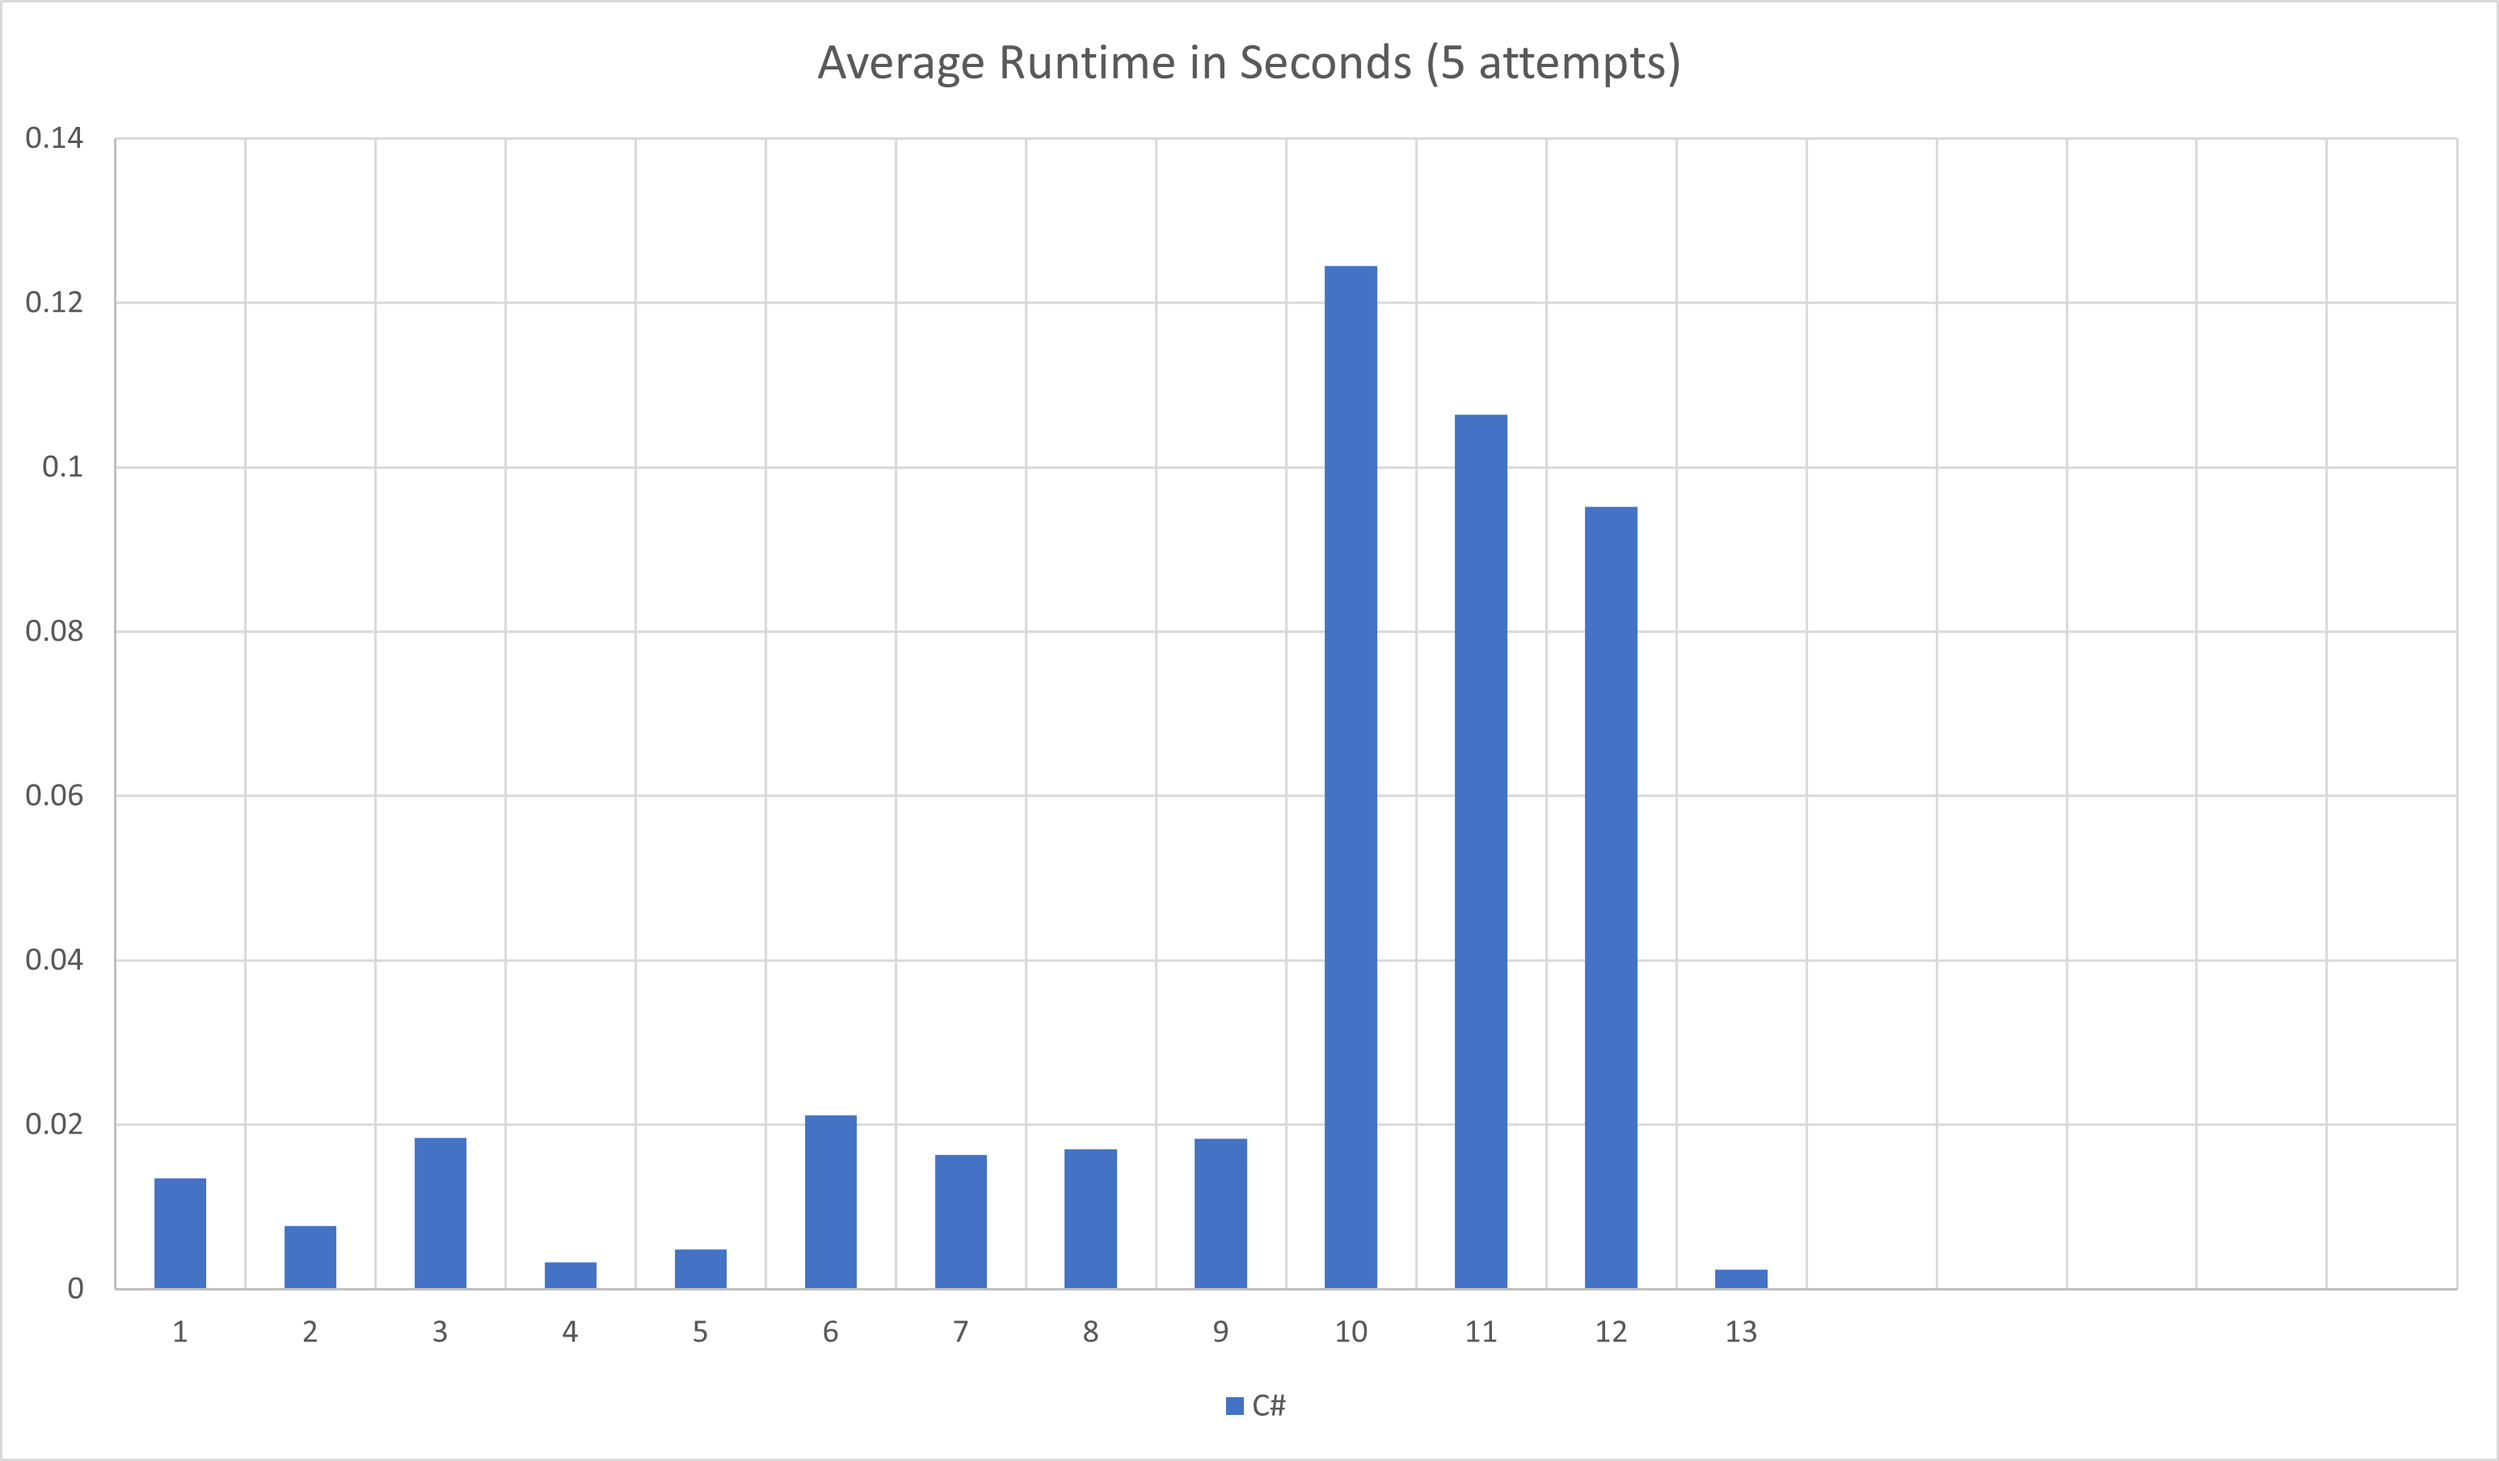
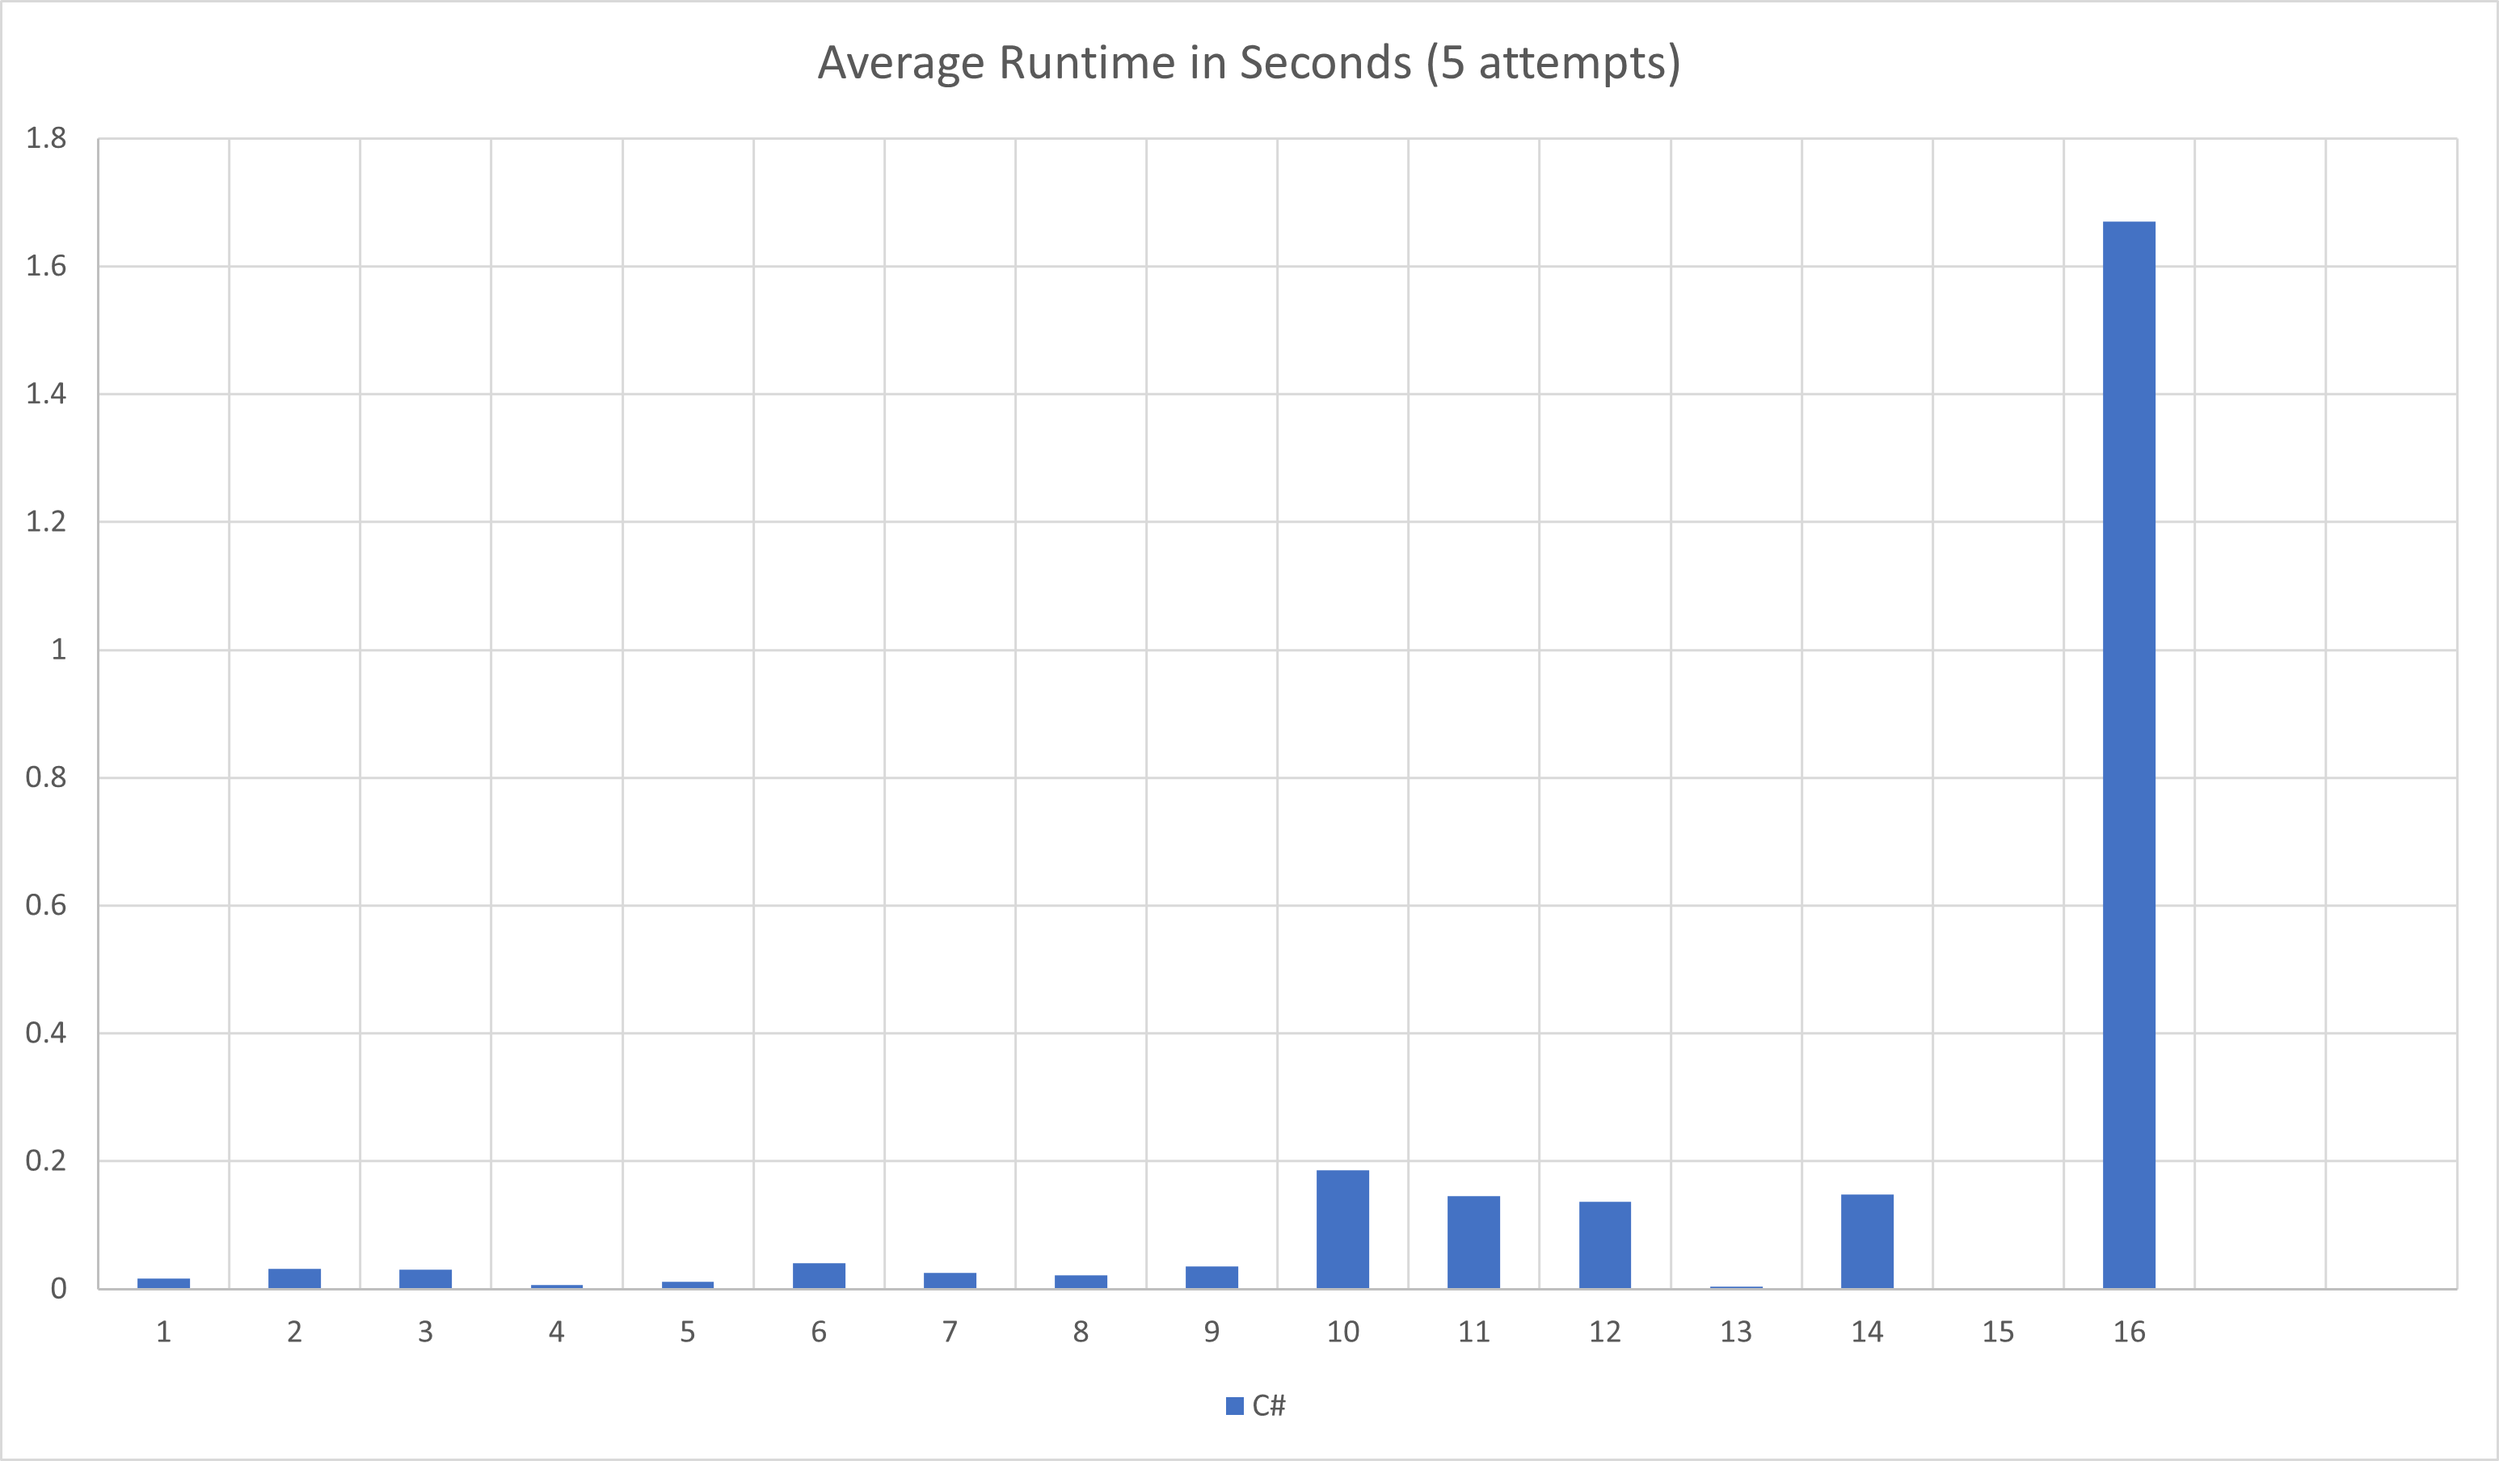
Solve 2023, day 16, part 2
This one could use speeding up.

diff --git a/2023/csharp/AdventOfCode2023/Solvers/Day16Solver.cs b/2023/csharp/AdventOfCode2023/Solvers/Day16Solver.cs
@@ -22,12 +22,34 @@ internal class Day16Solver : ISolver
     private static long GetPart1Answer(List<string> lines)
     {
         var grid = SparseGrid<char>.Parse(lines, x => x);
-        var beamsVisited = new HashSet<Beam>();
 
         var start = (0, 0);
         var direction = (1, 0);
+        var startBeam = new Beam(start, direction);
+
+        return CountEnergizedSpaces(grid, startBeam);
+    }
+
+    private static long GetPart2Answer(List<string> lines)
+    {
+        var grid = SparseGrid<char>.Parse(lines, x => x);
+
+        return Enumerable.Range(0, lines.Count)
+            .SelectMany(i => new[]
+            {
+                new Beam((0, i), (1, 0)),
+                new Beam(((int)grid.xMax, i), (-1, 0)),
+                new Beam((i, 0), (0, 1)),
+                new Beam((i, (int)grid.yMax), (0, -1)),
+            }).Select(startBeam => CountEnergizedSpaces(grid, startBeam))
+            .Max();
+    }
+
+    private static int CountEnergizedSpaces(SparseGrid<char> grid, Beam startBeam)
+    {
         var frontier = new Queue<Beam>();
-        frontier.Enqueue(new Beam(start, direction));
+        var beamsVisited = new HashSet<Beam>();
+        frontier.Enqueue(startBeam);
 
         while (frontier.Any())
         {
@@ -85,13 +107,7 @@ internal class Day16Solver : ISolver
         }
 
         var energizedSpaces = beamsVisited.Select(b => b.Position).ToHashSet();
-
         return energizedSpaces.Count;
-    }
-
-    private static long GetPart2Answer(List<string> lines)
-    {
-        return -1;
     }
 
     private static Point2D RightTurn(Point2D direction)

diff --git a/2023/README.md b/2023/README.md
@@ -11,7 +11,7 @@ In case I end up solving over time and in multiple languages, I'll track which s
 
 |      |1|2|3|4|5|6|7|8|9|10|11|12|13|14|15|16|17|18|19|20|21|22|23|24|25|
 |------|-|-|-|-|-|-|-|-|-|--|--|--|--|--|--|--|--|--|--|--|--|--|--|--|--|
-|**C#**|🌟|🌟|🌟|🌟|🌟|🌟|🌟|🌟|🌟|🌟|🌟|⭐|🌟|🌟|  |  |  |  |  |  |  |  |  |  |  |
+|**C#**|🌟|🌟|🌟|🌟|🌟|🌟|🌟|🌟|🌟|🌟|🌟|⭐|🌟|🌟|  |🌟|  |  |  |  |  |  |  |  |  |
 
 ⭐ - First star completed\
 🌟 - Both stars completed
